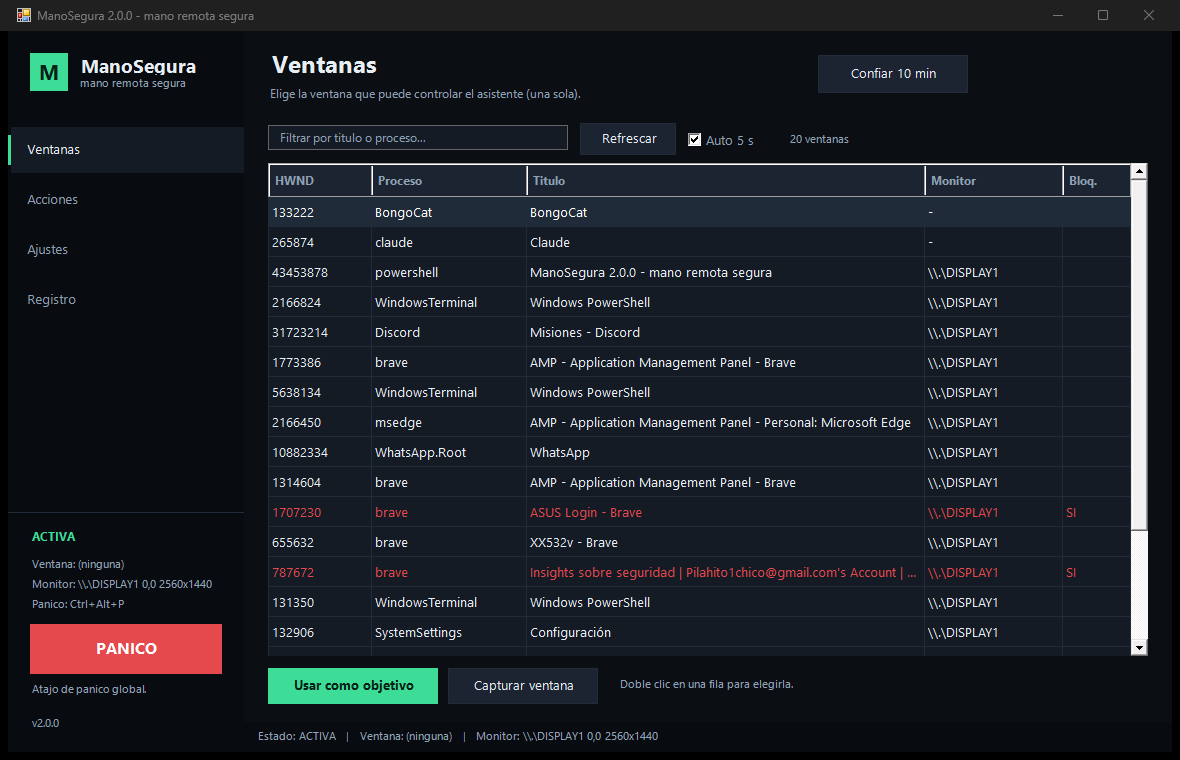
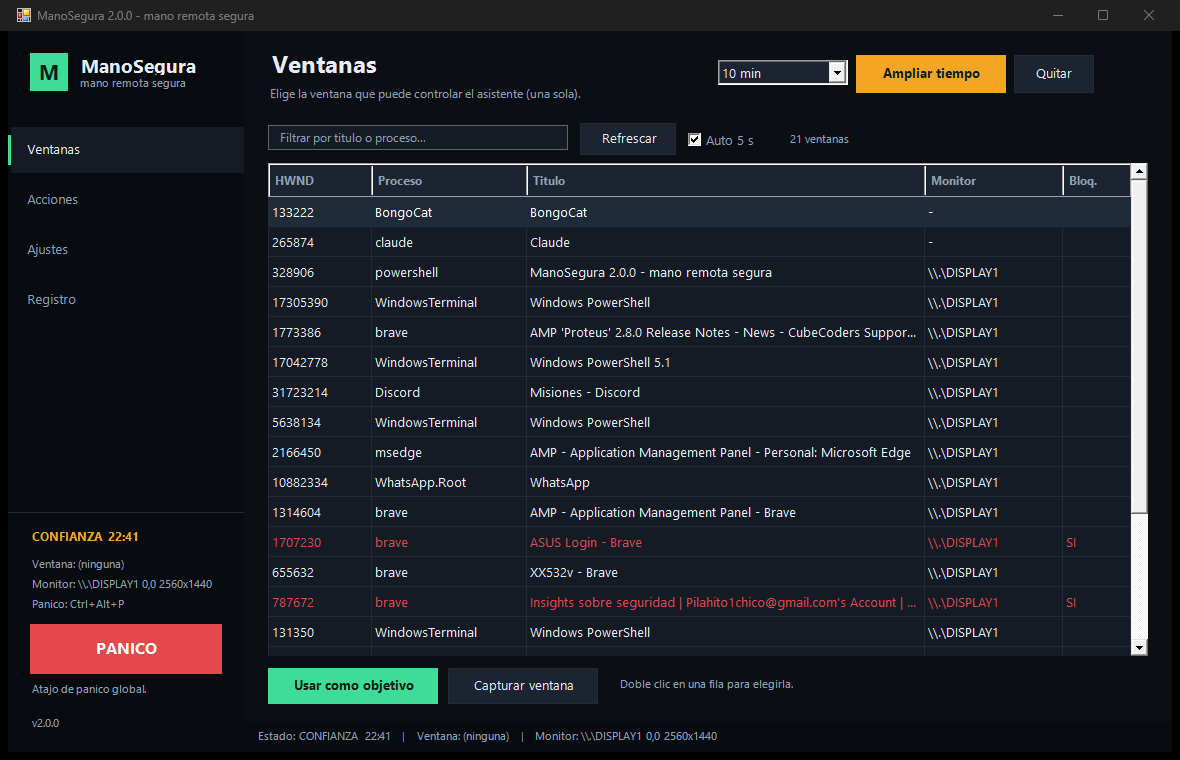
confianza ampliable: presets 10m/30m/1h/2h/3h/personalizado y trust add

diff --git a/README.md b/README.md
@@ -49,7 +49,7 @@ powershell -NoProfile -ExecutionPolicy RemoteSigned -File .\ManoSegura.ps1
 .\ManoSegura.ps1 use "Bloc de notas"
 
 # 10 minutos de confianza (sin diálogo en cada acción)
-.\ManoSegura.ps1 trust 10
+.\ManoSegura.ps1 trust 1h
 
 # Acciones
 .\ManoSegura.ps1 shot
@@ -74,7 +74,21 @@ powershell -NoProfile -ExecutionPolicy RemoteSigned -File .\ManoSegura.ps1
 | **Ajustes** | Todos los ajustes de `config.json` con formulario; se guardan al momento. |
 | **Registro** | Últimas líneas del registro y botón para abrir la carpeta. |
 
-Arriba: estado (ventana, monitor, confianza), **PANICO**, **Activar** y **Confiar 10 min**. Un borde naranja (rojo en confianza) marca la ventana controlada. El atajo de pánico (`Ctrl+Alt+P` por defecto) funciona mientras la interfaz está abierta.
+Arriba: estado (ventana, monitor, confianza), **PANICO**, **Activar** y el selector de confianza (**10 min**, **30 min**, **1 h**, **2 h**, **3 h** o **Personalizado...**). Si ya hay confianza activa, el botón cambia a **Ampliar tiempo** y **Quitar** la retira. Un borde naranja (rojo en confianza) marca la ventana controlada. El atajo de pánico (`Ctrl+Alt+P` por defecto) funciona mientras la interfaz está abierta.
+
+## Tiempo de confianza
+
+En la interfaz, elige **10 min**, **30 min**, **1 h**, **2 h**, **3 h** o **Personalizado...** y pulsa **Confiar**. Si ya hay confianza activa, el mismo botón pasa a **Ampliar tiempo** (suma minutos a la caducidad actual) y **Quitar** la desactiva. Por CLI:
+
+```powershell
+.\ManoSegura.ps1 trust 30m
+.\ManoSegura.ps1 trust 2h
+.\ManoSegura.ps1 trust add 30m     # o trust +30m
+.\ManoSegura.ps1 trust 1h30m      # 90 minutos
+.\ManoSegura.ps1 untrust
+```
+
+El máximo total lo pone `TrustMaxMinutes` en `config.json` (120 por defecto, hasta 1440). `status` muestra los minutos restantes.
 
 ## Comandos
 
@@ -95,7 +109,9 @@ Arriba: estado (ventana, monitor, confianza), **PANICO**, **Activar** y **Confia
 | `wait [ms]` | Espera (máximo 10 s). |
 | `batch <fichero.json\|->` | Varios pasos con un solo permiso. |
 | `status` | Estado completo. |
-| `trust [min]` / `untrust` | Modo confianza temporal. |
+| `trust [tiempo]` | Modo confianza: `10m`, `30m`, `1h`, `2h`, `3h`, `90`, `1h30m` (por defecto 10 min). |
+| `trust add <tiempo>` / `trust +30m` | Añade tiempo a la confianza activa. |
+| `untrust` | Quita el modo confianza. |
 | `panic` / `enable` / `disable` | Desactiva o reactiva ManoSegura. |
 | `config [show\|path\|reset]` | Muestra, abre o reinicia la configuración. |
 | `config set <clave> <valor>` | Cambia un ajuste. |
@@ -137,7 +153,7 @@ Ejemplo en `config.example.json`. La configuración se valida al cargar: si algo
 - **Nunca escribe en campos de contraseña** (comprobación de UI Automation).
 - **Bloquea ventanas sensibles** (login, contraseñas, Gmail/Outlook, pagos, banca…). La lista es configurable y se puede desactivar con `BlockSensitiveWindows=false`.
 - **Pánico**: `Ctrl+Alt+P` mientras la interfaz está abierta, o `panic` por CLI; desactiva ManoSegura y revoca la confianza. El estado persiste hasta `enable`.
-- **Confianza con caducidad**: `trust 10` durante 10 minutos; nunca más de `TrustMaxMinutes`.
+- **Confianza con caducidad y ampliable**: presets de 10 min, 30 min, 1 h, 2 h, 3 h o tiempo personalizado; `trust add` añade minutos sobre lo que queda. Nunca pasa de `TrustMaxMinutes` (120 min por defecto).
 - No hace admin, no descarga nada, no crea scripts temporales ni usa `-EncodedCommand`/`Invoke-Expression`.
 - El historial queda en `logs/manosegura.log`; no hay cadena de hashes (simplificado en la 2.0).
 
@@ -162,7 +178,7 @@ Hay un ejemplo en `examples/steps.example.json`. Todos los pasos se validan ante
 
 1. `list` → el asistente ve ventanas y hwnd.
 2. `use "<titulo>"` → tú confirmas la ventana objetivo.
-3. `trust 10` (o `ConfirmMode=auto` en un entorno controlado) → trabaja sin interrumpirte.
+3. `trust 1h` (o `ConfirmMode=auto` en un entorno controlado) → trabaja sin interrumpirte; si se acaba, `trust add 30m`.
 4. El asistente hace `click`, `type`, `key`, `shot`…
 5. `panic` (o `Ctrl+Alt+P`) si algo va mal.
 

diff --git a/CHANGELOG.md b/CHANGELOG.md
@@ -9,6 +9,7 @@ Formato basado en [Keep a Changelog](https://keepachangelog.com/es-ES/1.1.0/); v
 - Comandos `drag`, `focus` (también dentro de batch), `config set`, `monitors`.
 - Opciones globales `--yes`, `--dry-run` y `--format png|jpg`.
 - Ajustes nuevos: `ConfirmMode` (`ask`/`auto`), `ClickDelayMs`, `MaxBatchSteps`, `BlockedTitles`, `ShotFormat`, `LogLines`, `PanicHotkey`.
+- **Tiempo de confianza ampliable**: presets 10 min / 30 min / 1 h / 2 h / 3 h o personalizado en la interfaz, con boton **Ampliar tiempo** y **Quitar**; por CLI `trust 1h`, `trust add 30m` o `trust +30m`.
 - Ejemplo de batch actualizado y `config.example.json` nuevo.
 - Tests Pester 5 reescritos y CI para PowerShell 5.1 y 7.
 
